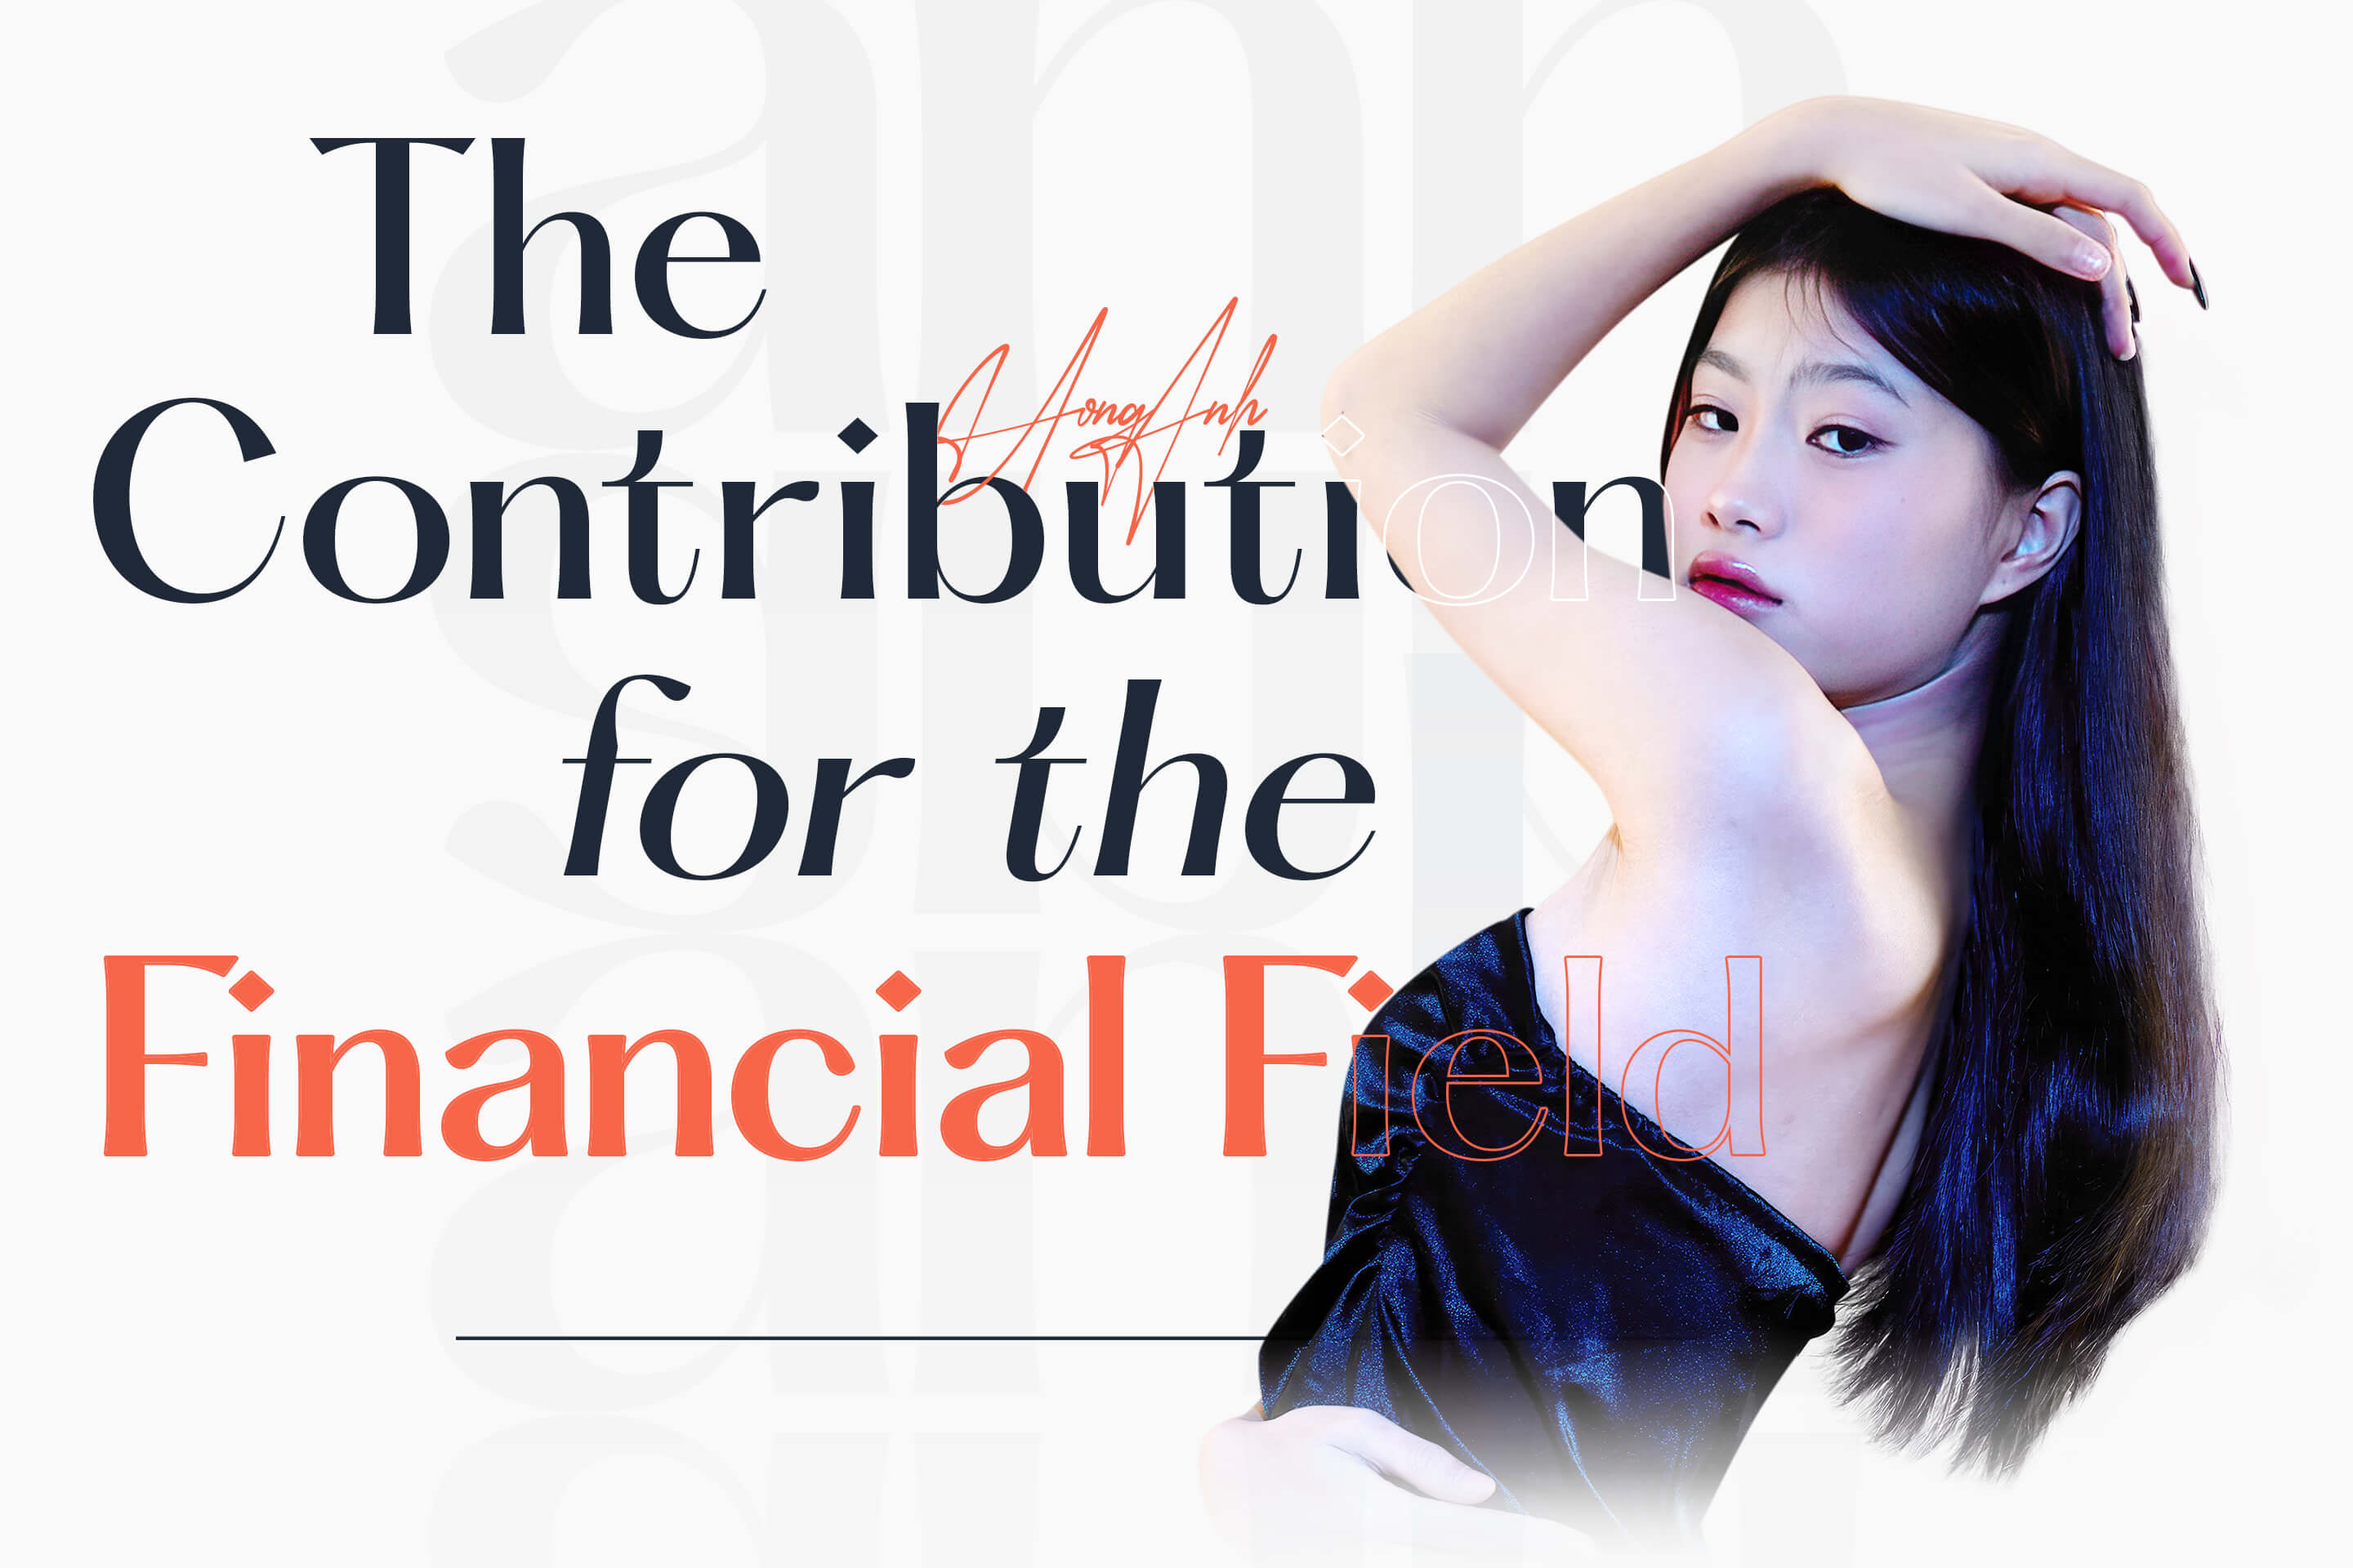
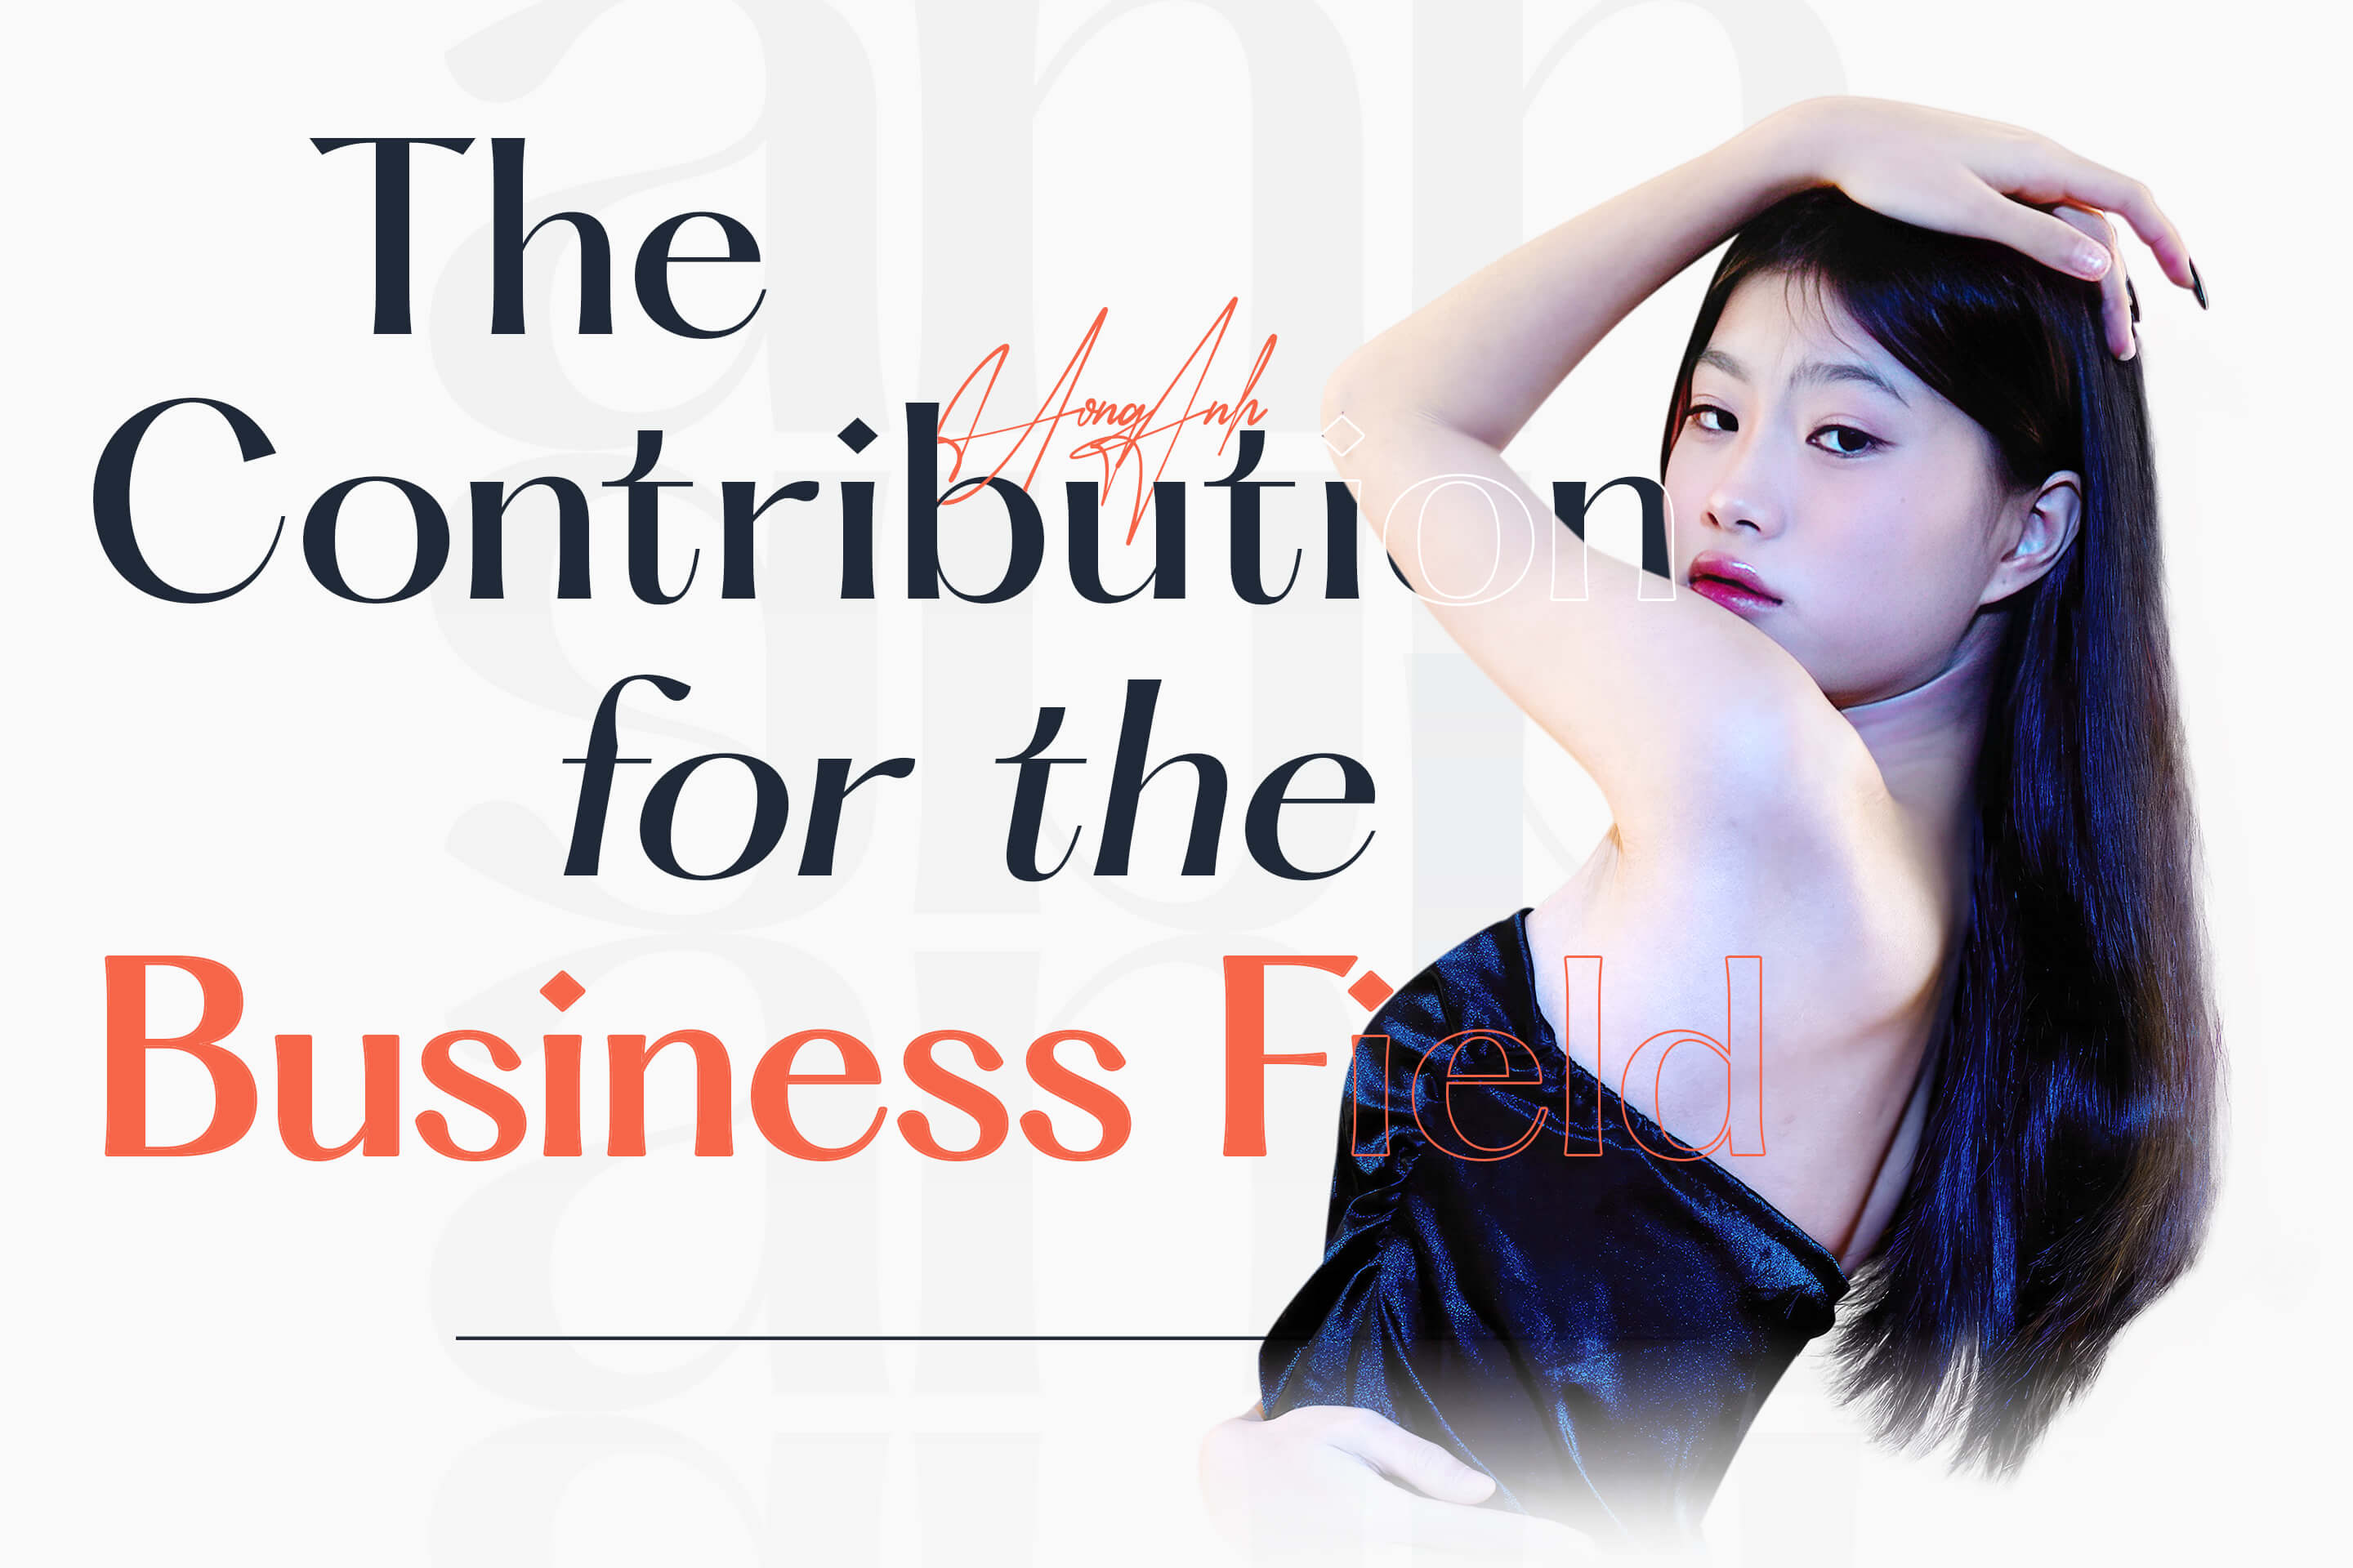
fix layout activity and content

Changed region(s): [[0.0625, 0.5938, 0.5, 0.75]]

diff --git a/components/activity/index.tsx b/components/activity/index.tsx
@@ -12,15 +12,18 @@ const activityOptions = [
     title: "Passion",
     href: "/passion",
     imageSource: images.navhome0,
+    description: `I'm an energetic and ambitious young girl with a passion for learning and a vision to make a mark in the business world. My journey started early`,
   },
   {
-    title: "Finance",
-    href: "/finance",
+    title: "My Projects",
+    href: "/my-projects",
     imageSource: images.navhome1,
+    description: `My family has always been my foundation. My parents are dynamic entrepreneurs, managing companies, which means they're often busy.`,
   },
   {
     title: "Social Support",
     href: "/social-support",
+    description: `I have a special love and desire to help poor children in difficult living conditions, especially ethnic minority children in mountainous areas.`,
     imageSource: images.navhome2,
   },
 ];
@@ -56,7 +59,7 @@ const MyActivity = () => {
         </h1>
         <motion.div
           ref={containerRef}
-          className="flex flex-row flex-wrap justify-center xl:justify-between items-center gap-6 xl:gap-0"
+          className="flex flex-row flex-wrap justify-center xl:justify-center items-center gap-6 xl:gap-6"
           variants={containerVariants}
           initial="hidden"
           animate={isInView ? "visible" : "hidden"}
@@ -71,6 +74,7 @@ const MyActivity = () => {
                 title={activity.title}
                 imageSource={activity.imageSource}
                 href={activity.href}
+                description={activity.description}
               />
             </motion.div>
           ))}

diff --git a/components/activity/Card.tsx b/components/activity/Card.tsx
@@ -6,19 +6,36 @@ import React from "react";
 type Props = {
   imageSource: string | StaticImport;
   title: string;
+  description: string;
   href: string;
 };
 
-const Card = ({ imageSource, title, href }: Props) => {
+const Card = ({ imageSource, title, href, description }: Props) => {
   return (
-    <Link href={href}>
-      <div className="w-full transform transition-transform duration-500 ease-in-out hover:scale-105 hover:translate-y-[-40px]">
-        <Image src={imageSource} alt="image-activity" className="w-full" />
-        <p className="font-hatton text-gray-800 text-[30px] md:text-[36px] text-center">
-          {title}
-        </p>
+    <div
+      className="w-full
+    
+    "
+    >
+      <div className="w-full flex flex-row items-center gap-6">
+        <Image src={imageSource} alt="image-activity" className="w-2/5" />
+        <div className="w-3/5">
+          <p className="font-hatton text-gray-800 text-[24px] md:text-[32px]">
+            {title}
+          </p>
+          <p className="font-hatton text-gray-500 text-sm md:text-base line-clamp-2">
+            {description}
+          </p>
+          <div className="mt-4">
+            <Link href={href}>
+              <div className="rounded-full bg-primary-600 text-white text-base font-semibold px-4  py-2 w-fit hover:opacity-80">
+                Click to wow
+              </div>
+            </Link>
+          </div>
+        </div>
       </div>
-    </Link>
+    </div>
   );
 };
 

diff --git a/components/about/index.tsx b/components/about/index.tsx
@@ -26,7 +26,7 @@ const About = () => {
             <div className="space-y-8 relative z-10">
               <p className="text-sm md:text-base text-white text-center md:text-start">
                 I&apos;m an energetic and ambitious young girl with a passion
-                for learning and a vision to make a mark in the finance world.
+                for learning and a vision to make a mark in the business world.
                 My journey started early, with a fascination for numbers and
                 trends, which later grew into a desire to understand the
                 mechanics of business and investment. Alongside my academic
@@ -38,7 +38,7 @@ const About = () => {
                 at &quot;One Idea One World,&quot; an event celebrated for
                 fostering innovative startup ideas supported by Google and Nike.
                 This experience validated my love for entrepreneurship,
-                solidifying my resolve to innovate and lead in the finance
+                solidifying my resolve to innovate and lead in the business
                 world.
               </p>
               <ListButton />

diff --git a/components/Header.tsx b/components/Header.tsx
@@ -17,8 +17,8 @@ const navOptions = [
     href: "/passion",
   },
   {
-    title: "Finance",
-    href: "/finance",
+    title: "My Projects",
+    href: "/my-projects",
   },
   {
     title: "Social Support",
@@ -29,7 +29,6 @@ const navOptions = [
 const Header = () => {
   const router = useRouter();
   const pathname = usePathname();
-  console.log("🚀 ~ Header ~ pathname:", pathname);
   const [isMenuOpen, setIsMenuOpen] = useState(false);
 
   const handleScrollTo = (id: string) => {
